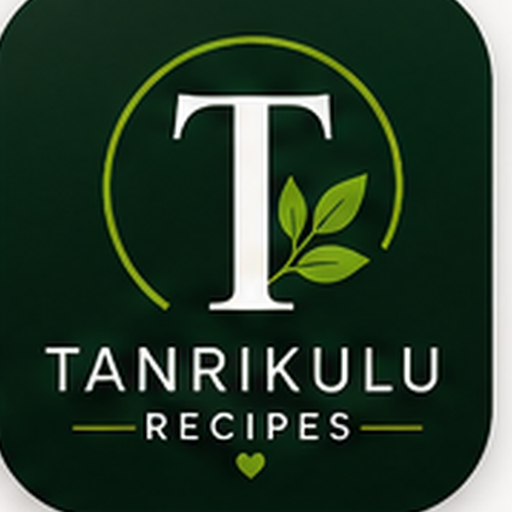
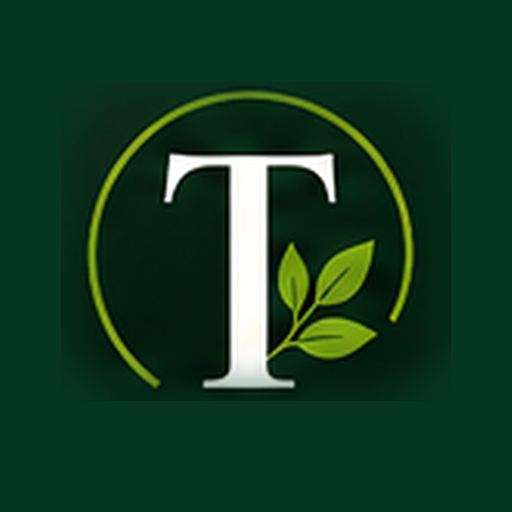
Add files via upload

diff --git a/styles.css b/styles.css
@@ -31,3 +31,15 @@ body{background:linear-gradient(180deg,#faf8f2 0,#f3f0e8 100%)}
   .category-item .count{font-size:11px}
   .sidebar-footer{padding-top:9px;font-size:9px;flex-wrap:wrap;gap:5px}
 }
+/* V4.3: iPhone portrait login, larger one-screen categories */
+.login-screen{background-image:linear-gradient(rgba(5,20,12,.02),rgba(5,20,12,.22)),url('healthy-login.jpg');background-position:center center;background-size:cover;background-repeat:no-repeat}
+@media(max-width:760px){
+  .sidebar{width:min(84vw,318px);padding:14px 15px 10px}
+  .brand{margin-bottom:12px;gap:10px}.brand-mark{width:39px;height:39px}.brand h1{font-size:16px}.brand p{display:none}
+  .sidebar>.primary.full{margin-bottom:10px;padding:9px 12px}.side-title{font-size:11px;padding:0 6px 5px}
+  .category-list{gap:1px;overflow:hidden;flex:1;min-height:0}
+  .category-item{font-size:16.5px;line-height:1.08;padding:8.5px 9px;gap:10px;border-radius:8px;font-weight:700}
+  .category-item>span:first-child{font-size:21px;min-width:24px}.category-item .count{font-size:11px}
+  .sidebar-footer{padding-top:7px;font-size:9px;gap:4px}
+  .login-screen{background-position:center center;padding:0 18px max(5vh,30px)}
+}

diff --git a/README.md b/README.md
@@ -1,9 +1,5 @@
-# Tanrikulu Recipes V4.2
+# Tanrikulu Recipes V4.3
 
-GitHub Pages family recipe app connected to Supabase.
+GitHub Pages + Supabase family recipe app.
 
-V4.2 refinements:
-- cleaner full-bleed iPhone Home Screen icon
-- tap outside the Categories drawer to close it
-- compact iPhone category typography/spacing so the full category list fits without scrolling on iPhone Max
-- recipe deletion with confirmation
+V4.3 improves the iPhone login artwork, uses a new full-bleed premium app icon, keeps the category drawer dismissible by tapping outside, and enlarges category labels/icons while keeping the menu fitted to an iPhone Max screen.
